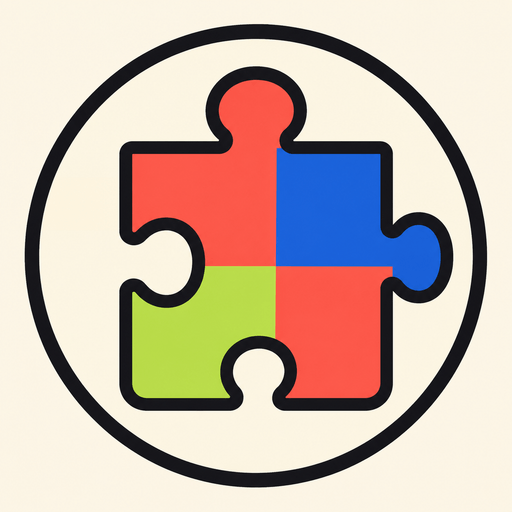
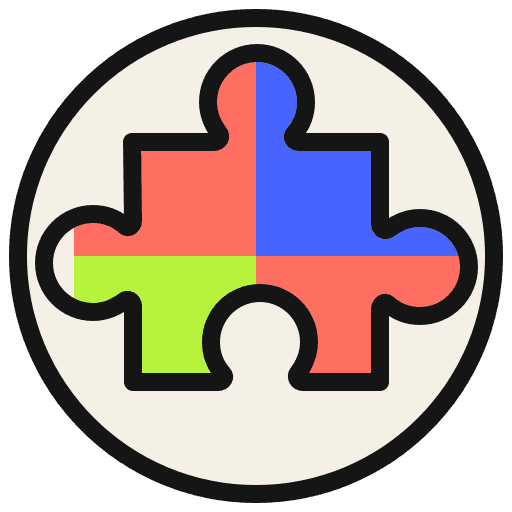
fix: persist edge pieces and refine mobile board

diff --git a/app/page.tsx b/app/page.tsx
@@ -5,7 +5,7 @@ import type { GalleryKind } from "@/lib/gallery";
 import type { RealtimeSubscription, RoomActionMessage, RoomDragMessage } from "@/lib/realtime-client";
 
 type PieceZone = "board" | "mat";
-type Piece = { id: number; x: number; y: number; locked?: boolean; layoutVersion?: number; zone?: PieceZone };
+type Piece = { id: number; x: number; y: number; locked?: boolean; layoutVersion?: number; zone?: PieceZone; positioned?: true };
 type Room = {
   code: string;
   title: string;
@@ -58,6 +58,7 @@ const ROOM_STORAGE_KEY = "puzzlebeyond-active-room";
 const NICKNAME_STORAGE_KEY = "puzzle-name";
 const BOARD = { left: 0.2, top: 0.15, width: 0.6, height: 0.7 } as const;
 const MOBILE_HORIZONTAL_BOARD = { left: 0.06, top: 0.26, width: 0.88, height: 0.48 } as const;
+const MOBILE_LANDSCAPE_BOARD = { left: 0.14, top: 0.04, width: 0.72, height: 0.92 } as const;
 const PUZZLE_LAYOUT_VERSION = 3;
 const MAX_VISIBLE_LOOSE_PIECES = 120;
 const LIVE_DRAG_INTERVAL_MS = 33;
@@ -371,6 +372,10 @@ function bandPiecePositions(rows: number, cols: number, seed: string) {
   return pieceRailPositions(rows, cols, seed, MOBILE_HORIZONTAL_BOARD, "top-bottom");
 }
 
+function landscapePiecePositions(rows: number, cols: number, seed: string) {
+  return pieceRailPositions(rows, cols, seed, MOBILE_LANDSCAPE_BOARD, "sides");
+}
+
 function scatteredPieces(rows: number, cols: number, _seed?: string) {
   void _seed;
   return Array.from({ length: rows * cols }, (_, id) => ({
@@ -397,8 +402,15 @@ function normalizePieceLayout(pieces: Piece[], rows: number, cols: number, seed:
       && piece.zone === "board"
       && Number.isFinite(piece.x) && Number.isFinite(piece.y)
       && piece.x >= 0 && piece.x <= maxX && piece.y >= 0 && piece.y <= maxY;
+    const usesPositionedMat = piece.layoutVersion === PUZZLE_LAYOUT_VERSION
+      && piece.zone === "mat" && piece.positioned === true
+      && Number.isFinite(piece.x) && Number.isFinite(piece.y)
+      && piece.x >= 0 && piece.x <= 1 - 0.6 / cols
+      && piece.y >= 0 && piece.y <= 1 - 0.48 / rows;
     return usesCurrentLayout
       ? { ...piece, id, zone: "board" as const, locked: false, layoutVersion: PUZZLE_LAYOUT_VERSION }
+      : usesPositionedMat
+        ? { ...piece, id, zone: "mat" as const, locked: false, positioned: true as const, layoutVersion: PUZZLE_LAYOUT_VERSION }
       : { id, x: 0, y: 0, zone: "mat" as const, locked: false, layoutVersion: PUZZLE_LAYOUT_VERSION };
   });
 }
@@ -731,6 +743,7 @@ const InteractivePuzzlePiece = memo(function InteractivePuzzlePiece({
   playerColor,
   sidePosition,
   bandPosition,
+  landscapePosition,
   onStart,
   onLostCapture,
   onFocusPiece,
@@ -749,12 +762,19 @@ const InteractivePuzzlePiece = memo(function InteractivePuzzlePiece({
   playerColor: string;
   sidePosition?: PieceRailPosition;
   bandPosition?: PieceRailPosition;
+  landscapePosition?: PieceRailPosition;
   onStart: (event: PointerEvent<HTMLDivElement>, piece: Piece) => void;
   onLostCapture: (pieceId: number) => void;
   onFocusPiece: (pieceId: number) => void;
   onPlacePiece: (pieceId: number) => void;
 }) {
   const isBoardPiece = zone === "board";
+  const sideX = piece.positioned ? piece.x : sidePosition?.x ?? 0;
+  const sideY = piece.positioned ? piece.y : sidePosition?.y ?? 0;
+  const bandX = piece.positioned ? piece.x : bandPosition?.x ?? 0;
+  const bandY = piece.positioned ? piece.y : bandPosition?.y ?? 0;
+  const landscapeX = piece.positioned ? piece.x : landscapePosition?.x ?? 0;
+  const landscapeY = piece.positioned ? piece.y : landscapePosition?.y ?? 0;
   const style = isBoardPiece
     ? {
       "--player-color": playerColor,
@@ -767,12 +787,16 @@ const InteractivePuzzlePiece = memo(function InteractivePuzzlePiece({
       "--player-color": playerColor,
       "--side-piece-width": `${BOARD.width * 100 / cols}%`,
       "--side-piece-height": `${BOARD.height * 100 / rows}%`,
-      "--side-piece-x": `${(sidePosition?.x ?? 0) * 100}%`,
-      "--side-piece-y": `${(sidePosition?.y ?? 0) * 100}%`,
+      "--side-piece-x": `${sideX * 100}%`,
+      "--side-piece-y": `${sideY * 100}%`,
       "--band-piece-width": `${MOBILE_HORIZONTAL_BOARD.width * 100 / cols}%`,
       "--band-piece-height": `${MOBILE_HORIZONTAL_BOARD.height * 100 / rows}%`,
-      "--band-piece-x": `${(bandPosition?.x ?? 0) * 100}%`,
-      "--band-piece-y": `${(bandPosition?.y ?? 0) * 100}%`,
+      "--band-piece-x": `${bandX * 100}%`,
+      "--band-piece-y": `${bandY * 100}%`,
+      "--landscape-piece-width": `${MOBILE_LANDSCAPE_BOARD.width * 100 / cols}%`,
+      "--landscape-piece-height": `${MOBILE_LANDSCAPE_BOARD.height * 100 / rows}%`,
+      "--landscape-piece-x": `${landscapeX * 100}%`,
+      "--landscape-piece-y": `${landscapeY * 100}%`,
     } as CSSProperties;
   const densityClass = pieceCount > 120 ? "dense-piece" : pieceCount > 20 ? "compact-piece" : "";
   return (
@@ -1029,6 +1053,7 @@ export default function Home() {
   const clientId = "self";
   const boardAreaRef = useRef<HTMLDivElement>(null);
   const boardRef = useRef<HTMLDivElement>(null);
+  const workspaceRef = useRef<HTMLDivElement>(null);
   const piecesRef = useRef(pieces);
   const [boardSize, setBoardSize] = useState({ width: 0, height: 0 });
   const lastLocalMove = useRef(0);
@@ -1333,7 +1358,7 @@ export default function Home() {
       setPieces((current) => {
         const next = current.map((piece) => piece.locked || piece.zone !== "board"
           ? piece
-          : { ...piece, x: 0, y: 0, zone: "mat" as const, locked: false, layoutVersion: PUZZLE_LAYOUT_VERSION });
+          : { ...piece, x: 0, y: 0, zone: "mat" as const, locked: false, positioned: undefined, layoutVersion: PUZZLE_LAYOUT_VERSION });
         piecesRef.current = next;
         return next;
       });
@@ -1398,9 +1423,11 @@ export default function Home() {
   const galleryVisible = !room && (galleryOpen || introCompletion === "gallery");
   const sideWorkspaceAspect = imageAspect * BOARD.height / BOARD.width;
   const bandWorkspaceAspect = imageAspect * MOBILE_HORIZONTAL_BOARD.height / MOBILE_HORIZONTAL_BOARD.width;
+  const landscapeWorkspaceAspect = imageAspect * MOBILE_LANDSCAPE_BOARD.height / MOBILE_LANDSCAPE_BOARD.width;
   const workspaceStyle = {
     "--side-workspace-aspect": sideWorkspaceAspect,
     "--band-workspace-aspect": bandWorkspaceAspect,
+    "--landscape-workspace-aspect": landscapeWorkspaceAspect,
   } as CSSProperties;
   const boardStyle = boardSize.width > 0
     ? { width: `${boardSize.width}px`, height: `${boardSize.height}px` }
@@ -1419,6 +1446,7 @@ export default function Home() {
   const lockedIdsKey = useMemo(() => lockedIds.join(","), [lockedIds]);
   const sideLayout = useMemo(() => sidePiecePositions(rows, cols, puzzleSeed), [rows, cols, puzzleSeed]);
   const bandLayout = useMemo(() => bandPiecePositions(rows, cols, puzzleSeed), [rows, cols, puzzleSeed]);
+  const landscapeLayout = useMemo(() => landscapePiecePositions(rows, cols, puzzleSeed), [rows, cols, puzzleSeed]);
   const loosePieces = useMemo(() => pieces
     .filter((piece) => !piece.locked && piece.zone !== "board")
     .sort((left, right) => left.id - right.id), [pieces]);
@@ -1807,6 +1835,7 @@ export default function Home() {
       rafRef.current = null;
     }
     const rect = boardRef.current?.getBoundingClientRect();
+    const workspaceRect = workspaceRef.current?.getBoundingClientRect();
     const droppedOnBoard = Boolean(rect
       && drag.clientX >= rect.left && drag.clientX <= rect.right
       && drag.clientY >= rect.top && drag.clientY <= rect.bottom);
@@ -1820,6 +1849,12 @@ export default function Home() {
       && Math.abs(boardY - targetY) < (1 / rows) * 0.72;
     const finalBoardX = snaps ? targetX : boardX;
     const finalBoardY = snaps ? targetY : boardY;
+    const matX = workspaceRect
+      ? Math.max(0, Math.min(1 - drag.width / workspaceRect.width, (drag.clientX - workspaceRect.left - drag.width / 2) / workspaceRect.width))
+      : 0;
+    const matY = workspaceRect
+      ? Math.max(0, Math.min(1 - drag.height / workspaceRect.height, (drag.clientY - workspaceRect.top - drag.height / 2) / workspaceRect.height))
+      : 0;
     if (liveEndMessage && droppedOnBoard) {
       liveEndMessage.x = finalBoardX + 1 / (2 * cols);
       liveEndMessage.y = finalBoardY + 1 / (2 * rows);
@@ -1827,10 +1862,11 @@ export default function Home() {
     const next = piecesRef.current.map((piece) => piece.id === movingId
       ? {
         ...piece,
-        x: droppedOnBoard ? finalBoardX : 0,
-        y: droppedOnBoard ? finalBoardY : 0,
+        x: droppedOnBoard ? finalBoardX : matX,
+        y: droppedOnBoard ? finalBoardY : matY,
         zone: droppedOnBoard ? "board" as const : "mat" as const,
         locked: snaps,
+        positioned: droppedOnBoard ? undefined : (true as const),
         layoutVersion: PUZZLE_LAYOUT_VERSION,
       }
       : piece);
@@ -1949,7 +1985,7 @@ export default function Home() {
     setHintVisible(false);
     const next = pieces.map((piece) => {
       if (piece.locked || piece.zone !== "board") return piece;
-      return { ...piece, x: 0, y: 0, zone: "mat" as const, locked: false, layoutVersion: PUZZLE_LAYOUT_VERSION };
+      return { ...piece, x: 0, y: 0, zone: "mat" as const, locked: false, positioned: undefined, layoutVersion: PUZZLE_LAYOUT_VERSION };
     });
     setPieces(next);
     if (room) {
@@ -2101,6 +2137,7 @@ export default function Home() {
             <>
               <div
                 className={`puzzle-workspace ${imageAspect > 1 ? "horizontal-puzzle" : ""} ${previewReplay ? "preview-replay" : ""}`}
+                ref={workspaceRef}
                 style={workspaceStyle}
                 onPointerMove={movePiece}
                 onPointerUp={endMove}
@@ -2202,6 +2239,7 @@ export default function Home() {
                     playerColor={localPlayerColor}
                     sidePosition={sideLayout.get(piece.id)}
                     bandPosition={bandLayout.get(piece.id)}
+                    landscapePosition={landscapeLayout.get(piece.id)}
                     onStart={startMove}
                     onLostCapture={handleLostPieceCapture}
                     onFocusPiece={focusPiece}

diff --git a/app/globals.css b/app/globals.css
@@ -91,7 +91,7 @@ h1 { margin:0; max-width:780px; font-size:clamp(30px,3.5vw,46px); line-height:.9
 .skip-preview-button:hover { background:var(--coral); box-shadow:2px 2px 0 var(--ink); transform:translate(-1px,-1px); }
 .skip-short { display:none; }
 .difficulty-pill { padding:5px 8px; border:1.5px solid var(--ink); background:var(--white); }
-.puzzle-workspace { --side-workspace-aspect:1.55; --band-workspace-aspect:1; --workspace-aspect:var(--side-workspace-aspect); position:relative; width:min(100%,calc((100dvh - 280px) * var(--workspace-aspect))); max-height:100%; min-width:0; min-height:0; aspect-ratio:var(--workspace-aspect); margin:auto; background:#d8d1c3; border:3px solid var(--ink); box-shadow:7px 7px 0 rgba(21,21,21,.22); overflow:hidden; touch-action:none; user-select:none; }
+.puzzle-workspace { --side-workspace-aspect:1.55; --band-workspace-aspect:1; --landscape-workspace-aspect:1.55; --workspace-aspect:var(--side-workspace-aspect); position:relative; width:min(100%,calc((100dvh - 280px) * var(--workspace-aspect))); max-height:100%; min-width:0; min-height:0; aspect-ratio:var(--workspace-aspect); margin:auto; background:#d8d1c3; border:3px solid var(--ink); box-shadow:7px 7px 0 rgba(21,21,21,.22); overflow:hidden; touch-action:none; user-select:none; }
 .puzzle-workspace.preview-replay { animation:previewReplay .7s cubic-bezier(.22,.8,.24,1) both; }
 @keyframes previewReplay { from { opacity:0; transform:translateY(12px) scale(.985); } to { opacity:1; transform:translateY(0) scale(1); } }
 .puzzle-workspace::before { content:""; position:absolute; inset:0; z-index:0; opacity:.22; background-image:radial-gradient(#151515 0.8px,transparent 0.8px); background-size:13px 13px; pointer-events:none; }
@@ -293,7 +293,7 @@ fieldset { margin:20px 0 0; padding:0; border:0; }
   .puzzle-workspace { width:min(100%,calc((100dvh - 150px) * var(--workspace-aspect))); }
   footer { display:none; }
 }
-@media (orientation:landscape) and (hover:none) and (pointer:coarse), (max-height:500px) and (orientation:landscape) {
+@media (max-width:1024px) and (orientation:landscape), (orientation:landscape) and (hover:none) and (pointer:coarse) {
   .site-shell.puzzle-active { height:100dvh; grid-template-rows:minmax(0,1fr); background:#e6e0d3; }
   .site-shell.puzzle-active>.topbar,
   .site-shell.puzzle-active>.hero-strip,
@@ -306,7 +306,9 @@ fieldset { margin:20px 0 0; padding:0; border:0; }
   .site-shell.puzzle-active .mobile-room-actions { display:none!important; }
   .site-shell.puzzle-active .game-layout { width:100%; max-width:none; height:100%; display:grid; grid-template-columns:minmax(0,1fr); border:0; }
   .site-shell.puzzle-active .board-section { width:100%; height:100%; padding:0; grid-template-rows:minmax(0,1fr); place-items:center; }
-  .site-shell.puzzle-active .puzzle-workspace { width:min(100%,calc(100dvh * var(--workspace-aspect))); max-width:100%; max-height:100dvh; margin:auto; border:0; box-shadow:none; }
+  .site-shell.puzzle-active .puzzle-workspace { --workspace-aspect:var(--landscape-workspace-aspect); width:min(100%,calc(100dvh * var(--workspace-aspect))); max-width:100%; max-height:100dvh; margin:auto; border:0; box-shadow:none; }
+  .site-shell.puzzle-active .puzzle-board-area { left:14%; top:4%; width:72%; height:92%; }
+  .site-shell.puzzle-active .puzzle-piece.side-piece { width:var(--landscape-piece-width); height:var(--landscape-piece-height); left:var(--landscape-piece-x); top:var(--landscape-piece-y); }
 }
 @media (max-width:380px) {
   .brand>span:last-child { display:none; }

diff --git a/lib/puzzle-validation.ts b/lib/puzzle-validation.ts
@@ -16,6 +16,7 @@ export type ValidatedPiece = {
   locked: boolean;
   layoutVersion: number;
   zone: PieceZone;
+  positioned?: true;
 };
 
 export type SupportedImageType = "image/jpeg" | "image/png" | "image/webp";
@@ -57,6 +58,12 @@ export function normalizePuzzlePiece(value: unknown, rows: number, cols: number)
 
   const zone: PieceZone = value.zone === "board" ? "board" : "mat";
   if (zone === "mat") {
+    if (value.positioned === true) {
+      const maxX = Math.max(0, 1 - 0.6 / cols);
+      const maxY = Math.max(0, 1 - 0.48 / rows);
+      if (x < 0 || x > maxX || y < 0 || y > maxY) return null;
+      return { id, x, y, locked: false, layoutVersion: PUZZLE_LAYOUT_VERSION, zone, positioned: true };
+    }
     return { id, x: 0, y: 0, locked: false, layoutVersion: PUZZLE_LAYOUT_VERSION, zone };
   }
 

diff --git a/app/layout.tsx b/app/layout.tsx
@@ -24,6 +24,7 @@ export const metadata: Metadata = {
   alternates: { canonical: "/" },
   icons: {
     icon: [
+      { url: "/icon.svg", type: "image/svg+xml" },
       { url: "/favicon-32.png", sizes: "32x32", type: "image/png" },
       { url: "/icon.png", sizes: "512x512", type: "image/png" },
     ],

diff --git a/lib/storage.ts b/lib/storage.ts
@@ -10,6 +10,7 @@ export type Piece = {
   locked?: boolean;
   layoutVersion?: number;
   zone?: "board" | "mat";
+  positioned?: true;
 };
 export type RoomRecord = {
   code: string;
